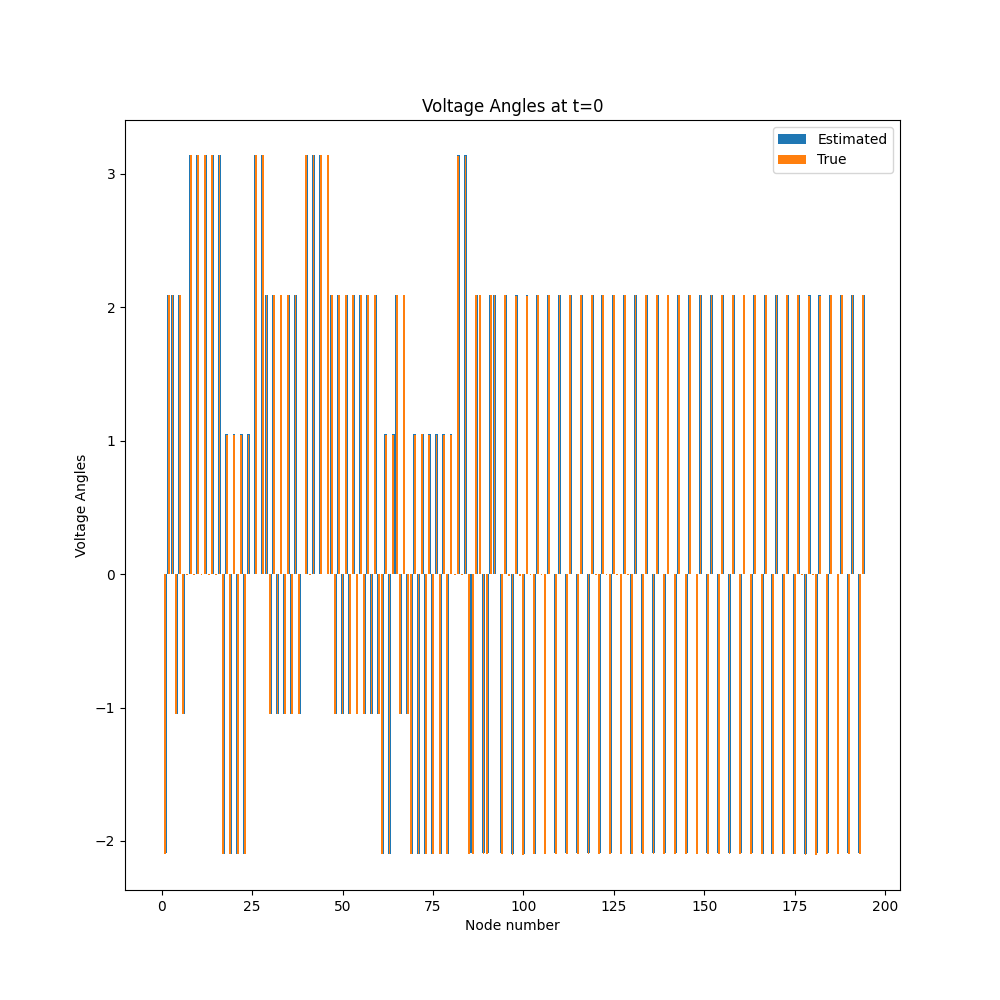
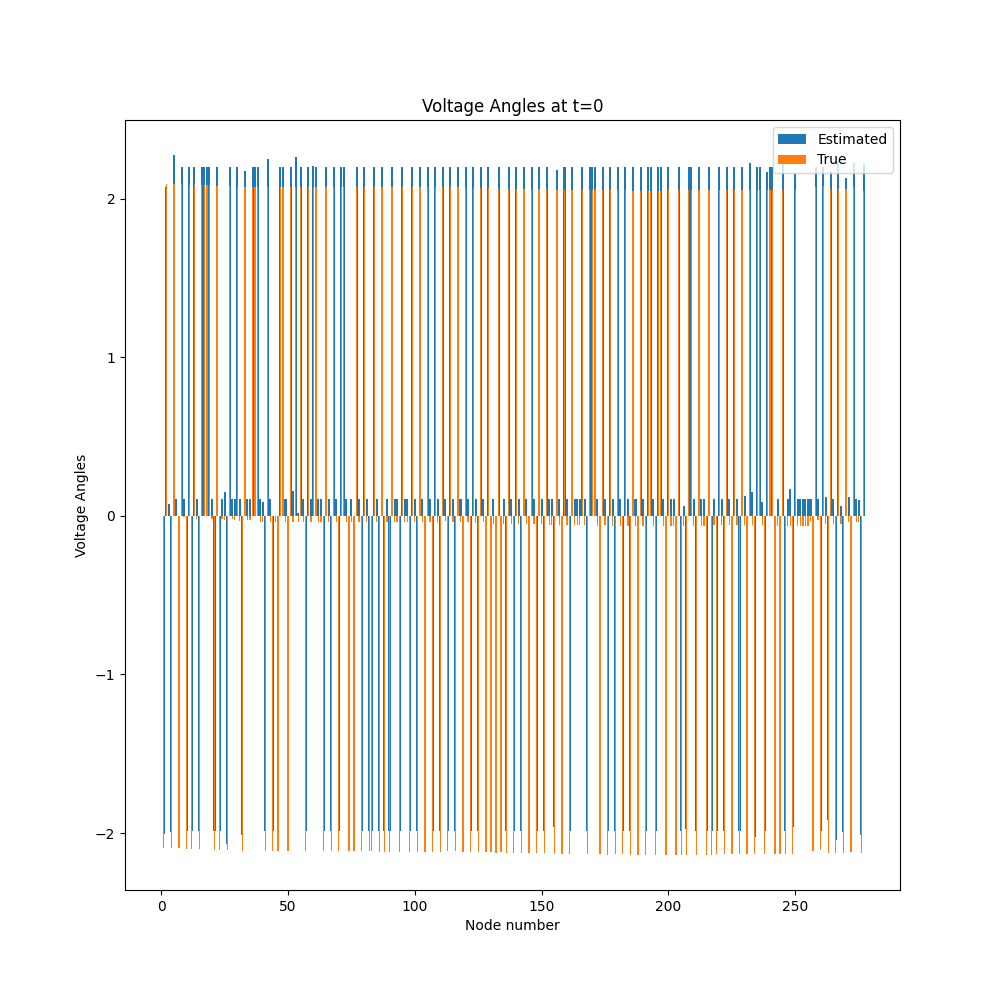
updating post analysis script to work on local_feeder

diff --git a/post_analysis.py b/post_analysis.py
@@ -10,7 +10,7 @@ from gadal.gadal_types.data_types import MeasurementArray, AdmittanceMatrix, Top
 voltage_real = feather.read_feather(os.path.join("recorder_voltage_real","data.feather"))
 voltage_imag = feather.read_feather(os.path.join("recorder_voltage_imag","data.feather"))
 
-with open(os.path.join("feeder","topology.json")) as f:
+with open(os.path.join("local_feeder","topology.json")) as f:
     topology = Topology.parse_obj(json.load(f))
     base_voltages = np.array(topology.base_voltage_magnitudes.values)
 
